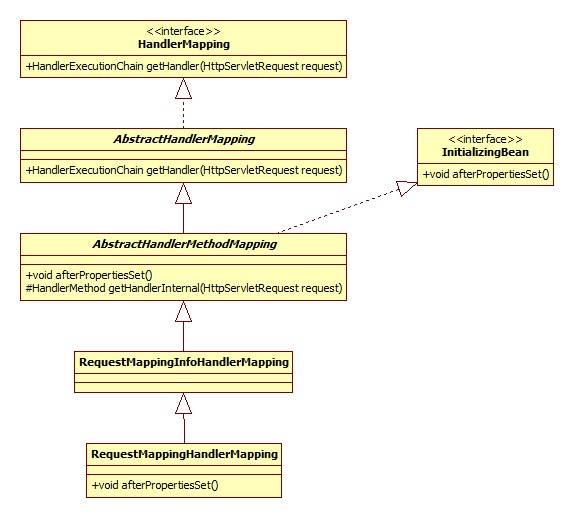
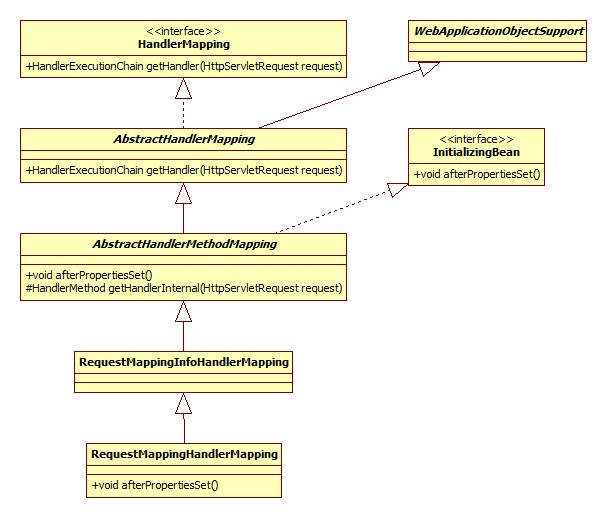
sping-mvc:session同步

diff --git a/note/spring-mvc.md b/note/spring-mvc.md
@@ -417,7 +417,7 @@ initFlashMapManager方法会向容器注册SessionFlashMapManager对象，类图
 
 ![RequestMappingHandlerMapping类图](images/RequestMappingHandlerMapping.jpg)
 
-初始化的入口位于AbstractHandlerMethodMapping的afterPropertiesSet方法，afterPropertiesSet调用了initHandlerMethods:
+初始化的入口位于AbstractHandlerMethodMapping的afterPropertiesSet方法和AbstractHandlerMapping的initApplicationContext方法，afterPropertiesSet调用了initHandlerMethods:
 
 ```java
 protected void initHandlerMethods() {
@@ -522,6 +522,21 @@ Cors的原理可以参考:
 [探讨跨域请求资源的几种方式](http://www.cnblogs.com/dojo-lzz/p/4265637.html)
 
 而initCorsConfiguration方法的作用便是将@CrossOrigin注解的各种属性封装在CorsConfiguration中。
+
+#### 拦截器初始化
+
+AbstractHandlerMapping.initApplicationContext:
+
+```java
+@Override
+protected void initApplicationContext() throws BeansException {
+	detectMappedInterceptors(this.adaptedInterceptors);
+}
+```
+
+作用就是从容器中获取所有MappedInterceptor bean并放到adaptedInterceptors中，前面提到过了，我们使用mvc:interceptor定义的拦截器其实就是MappedInterceptor对象。类图:
+
+![MappedInterceptor类图](images/MappedInterceptor.jpg)
 
 ## HandlerAdapter初始化
 
@@ -653,6 +668,7 @@ AbstractHandlerMapping.getHandler:
 public final HandlerExecutionChain getHandler(HttpServletRequest request) throws Exception {
 	Object handler = getHandlerInternal(request);
 	HandlerExecutionChain executionChain = getHandlerExecutionChain(handler, request);
+  	//判断请求头中是否有ORIGIN字段
 	if (CorsUtils.isCorsRequest(request)) {
 		CorsConfiguration globalConfig = this.corsConfigSource.getCorsConfiguration(request);
 		CorsConfiguration handlerConfig = getCorsConfiguration(handler, request);
@@ -665,3 +681,64 @@ public final HandlerExecutionChain getHandler(HttpServletRequest request) throws
 ```
 
 getHandlerInternal方法便是根据url进行查找的过程，可以参见MVC初始化-HandlerMapping初始化一节。下面重点是执行链的生成。
+
+getHandlerExecutionChain方法的原理就是从adaptedInterceptors中获得所有可以适配当前请求URL的MappedInterceptor并将其添加到HandlerExecutionChain的拦截器列表中。拦截器的顺序其实就是我们定义/注册的顺序。
+
+从getCorsHandlerExecutionChain的源码中可以看出，对于跨域请求其实是向调用链插入了一个CorsInterceptor。
+
+### 适配器查找
+
+DispatcherServlet.getHandlerAdapter:
+
+```java
+protected HandlerAdapter getHandlerAdapter(Object handler) {
+	for (HandlerAdapter ha : this.handlerAdapters) {
+		if (ha.supports(handler)) {
+			return ha;
+		}
+	}
+}
+```
+
+从前面配置解析-注解驱动可以看出，第一个适配器是RequestMappingHandlerAdapter，而其support方法直接返回true，这就导致了使用的适配器总是这一个。
+
+## 请求处理
+
+RequestMappingHandlerAdapter.handleInternal:
+
+```java
+@Override
+protected ModelAndView handleInternal(HttpServletRequest request,
+		HttpServletResponse response, HandlerMethod handlerMethod){
+	ModelAndView mav;
+	// Execute invokeHandlerMethod in synchronized block if required.
+	if (this.synchronizeOnSession) {
+		HttpSession session = request.getSession(false);
+		if (session != null) {
+			Object mutex = WebUtils.getSessionMutex(session);
+			synchronized (mutex) {
+				mav = invokeHandlerMethod(request, response, handlerMethod);
+			}
+		} else {
+			// No HttpSession available -> no mutex necessary
+			mav = invokeHandlerMethod(request, response, handlerMethod);
+		}
+	} else {
+		// No synchronization on session demanded at all...
+		mav = invokeHandlerMethod(request, response, handlerMethod);
+	}
+	if (!response.containsHeader(HEADER_CACHE_CONTROL)) {
+		if (getSessionAttributesHandler(handlerMethod).hasSessionAttributes()) {
+			applyCacheSeconds(response, this.cacheSecondsForSessionAttributeHandlers);
+		}
+		else {
+			prepareResponse(response);
+		}
+	}
+	return mav;
+}
+```
+
+### Session同步
+
+可以看出，如果开启了synchronizeOnSession，那么**同一个session的请求将会串行执行**，这一选项默认是关闭的，当然我们可以通过注入的方式进行改变。
